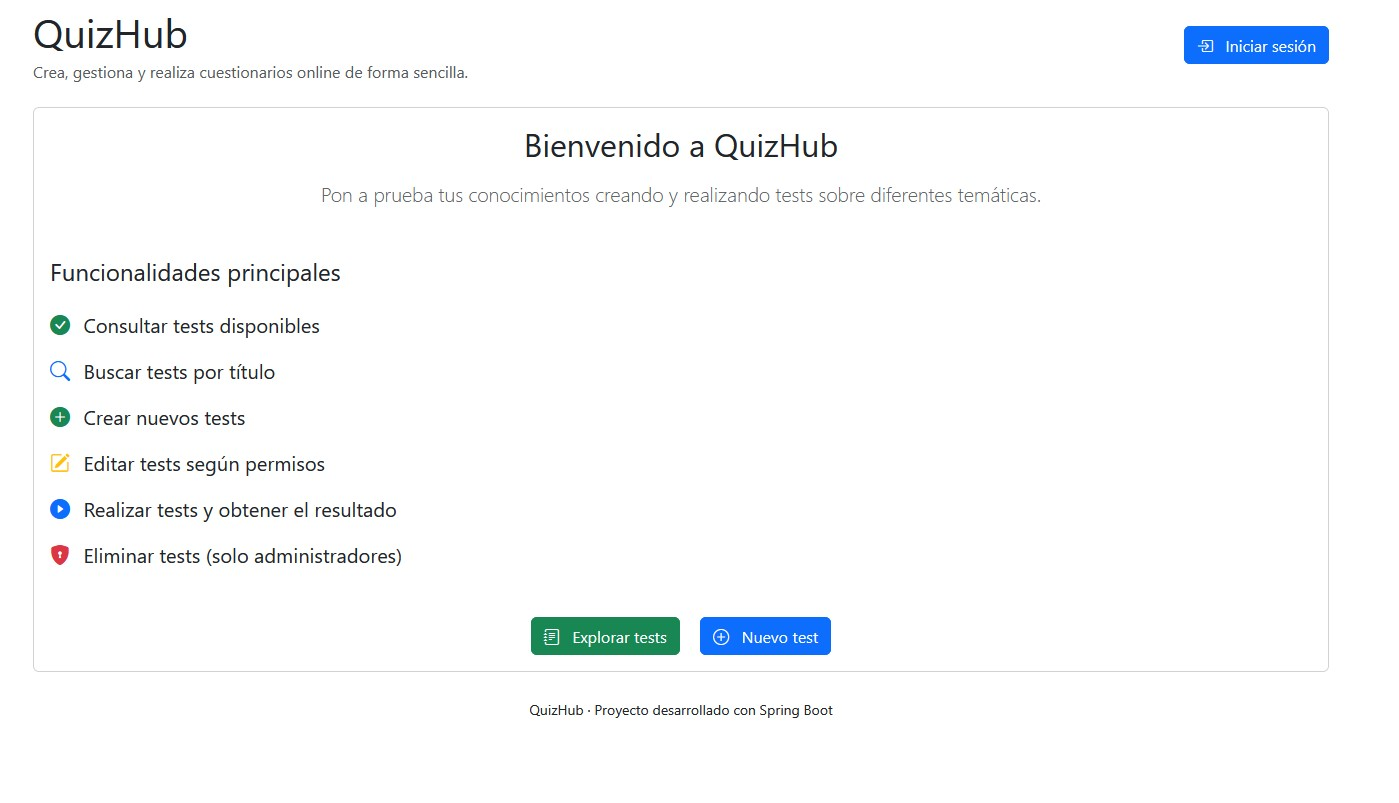
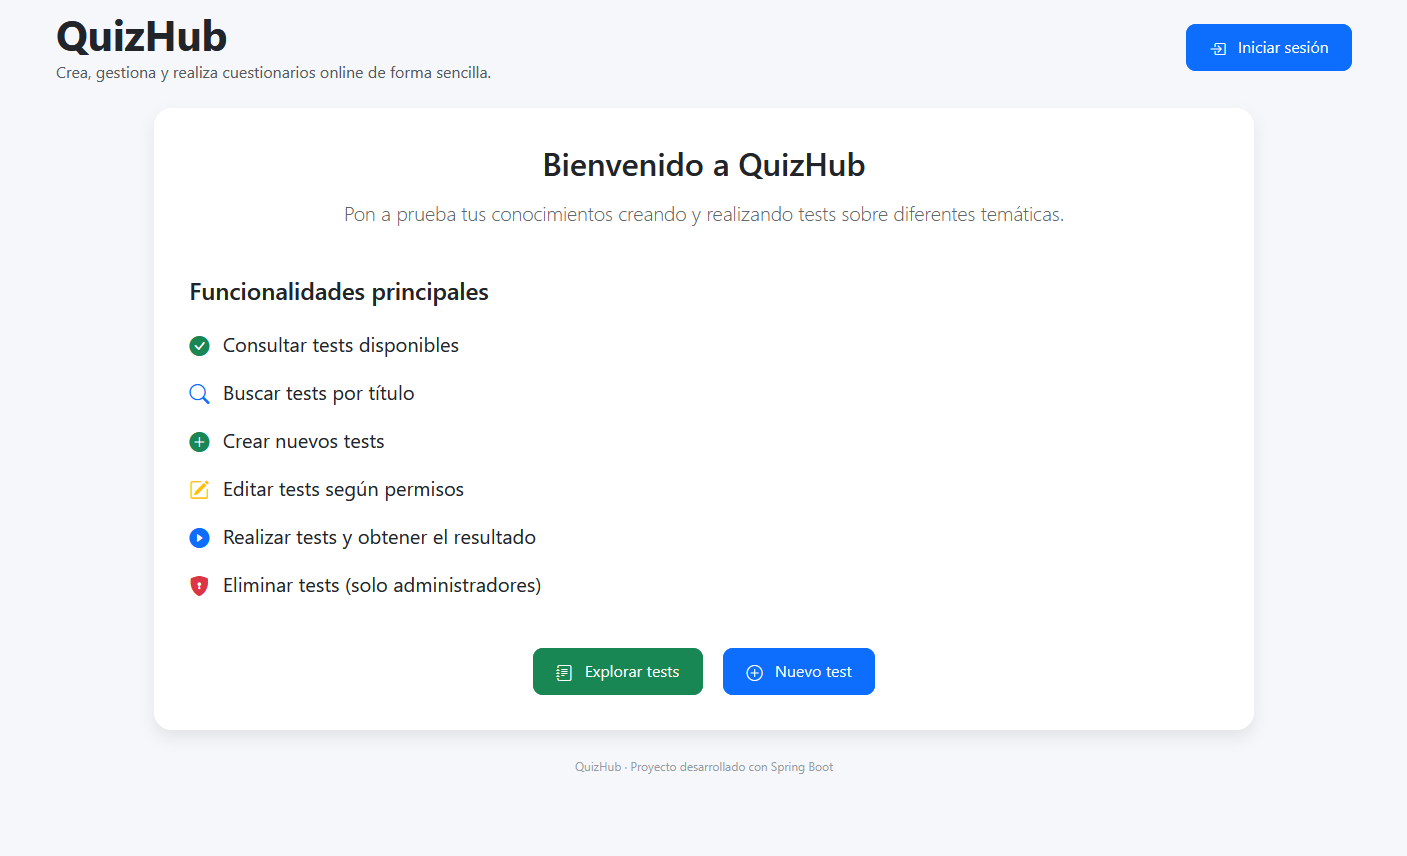
feat: complete QuizHub application

diff --git a/src/main/resources/templates/login.html b/src/main/resources/templates/login.html
@@ -1,0 +1,175 @@
+<!DOCTYPE html>
+<html xmlns:th="http://www.thymeleaf.org">
+
+<head>
+
+    <meta charset="UTF-8">
+
+    <title>QuizHub | Iniciar sesión</title>
+
+    <!-- Bootstrap -->
+
+    <link
+            href="https://cdn.jsdelivr.net/npm/bootstrap@5.3.3/dist/css/bootstrap.min.css"
+            rel="stylesheet">
+
+    <!-- Bootstrap Icons -->
+
+    <link
+            rel="stylesheet"
+            href="https://cdn.jsdelivr.net/npm/bootstrap-icons@1.11.3/font/bootstrap-icons.min.css">
+
+    <!-- CSS -->
+
+    <link
+            rel="stylesheet"
+            th:href="@{/css/style.css}">
+
+</head>
+
+<body>
+
+<div class="container py-5">
+
+    <div class="row justify-content-center">
+
+        <div class="col-lg-5">
+
+            <div class="card main-card">
+
+                <div class="card-body">
+
+                    <!-- CABECERA -->
+
+                    <div class="text-center mb-5">
+
+                        <h1 class="app-title">
+
+                            QuizHub
+
+                        </h1>
+
+                        <p class="text-muted">
+
+                            Accede para crear, editar y gestionar cuestionarios.
+
+                        </p>
+
+                    </div>
+
+                    <!-- ERROR -->
+
+                    <div
+                            th:if="${param.error}"
+                            class="alert alert-danger">
+
+                        <i class="bi bi-exclamation-triangle-fill me-2"></i>
+
+                        Usuario o contraseña incorrectos.
+
+                    </div>
+
+                    <!-- LOGOUT -->
+
+                    <div
+                            th:if="${param.logout}"
+                            class="alert alert-success">
+
+                        <i class="bi bi-check-circle-fill me-2"></i>
+
+                        Has cerrado sesión correctamente.
+
+                    </div>
+
+                    <!-- FORMULARIO -->
+
+                    <form
+                            th:action="@{/login}"
+                            method="post">
+
+                        <div class="mb-4">
+
+                            <label class="form-label">
+
+                                Usuario
+
+                            </label>
+
+                            <input
+                                    type="text"
+                                    name="username"
+                                    class="form-control"
+                                    required
+                                    autofocus>
+
+                        </div>
+
+                        <div class="mb-4">
+
+                            <label class="form-label">
+
+                                Contraseña
+
+                            </label>
+
+                            <input
+                                    type="password"
+                                    name="password"
+                                    class="form-control"
+                                    required>
+
+                        </div>
+
+                        <div class="d-grid mb-3">
+
+                            <button
+                                    type="submit"
+                                    class="btn btn-primary">
+
+                                <i class="bi bi-box-arrow-in-right me-2"></i>
+
+                                Iniciar sesión
+
+                            </button>
+
+                        </div>
+
+                    </form>
+
+                    <div class="text-center">
+
+                        <a
+                                href="/"
+                                class="btn btn-outline-secondary">
+
+                            <i class="bi bi-arrow-left me-2"></i>
+
+                            Volver al inicio
+
+                        </a>
+
+                    </div>
+
+                </div>
+
+            </div>
+
+            <footer class="text-center mt-4">
+
+                <small>
+
+                    QuizHub · Proyecto desarrollado con Spring Boot
+
+                </small>
+
+            </footer>
+
+        </div>
+
+    </div>
+
+</div>
+
+</body>
+
+</html>

diff --git a/src/main/java/dev/joannagr/quizhub/security/SecurityConfig.java b/src/main/java/dev/joannagr/quizhub/security/SecurityConfig.java
@@ -96,6 +96,10 @@ public class SecurityConfig {
 
                         .requestMatchers(
                                 "/",
+                                "/css/**",
+                                "/js/**",
+                                "/images/**",
+                                "/webjars/**",
                                 "/tests",
                                 "/tests/buscar",
                                 "/tests/realizar/**",
@@ -124,6 +128,8 @@ public class SecurityConfig {
                 // ====================
 
                 .formLogin(form -> form
+
+                        .loginPage("/login")
 
                         .defaultSuccessUrl("/tests", true)
 

diff --git a/src/main/java/dev/joannagr/quizhub/controller/LoginController.java b/src/main/java/dev/joannagr/quizhub/controller/LoginController.java
@@ -1,0 +1,23 @@
+package dev.joannagr.quizhub.controller;
+
+import org.springframework.stereotype.Controller;
+import org.springframework.web.bind.annotation.GetMapping;
+
+/*
+ * Controlador encargado de mostrar
+ * la página de inicio de sesión.
+ */
+@Controller
+public class LoginController {
+
+    /*
+     * Muestra el formulario de login.
+     */
+    @GetMapping("/login")
+    public String login() {
+
+        return "login";
+
+    }
+
+}
